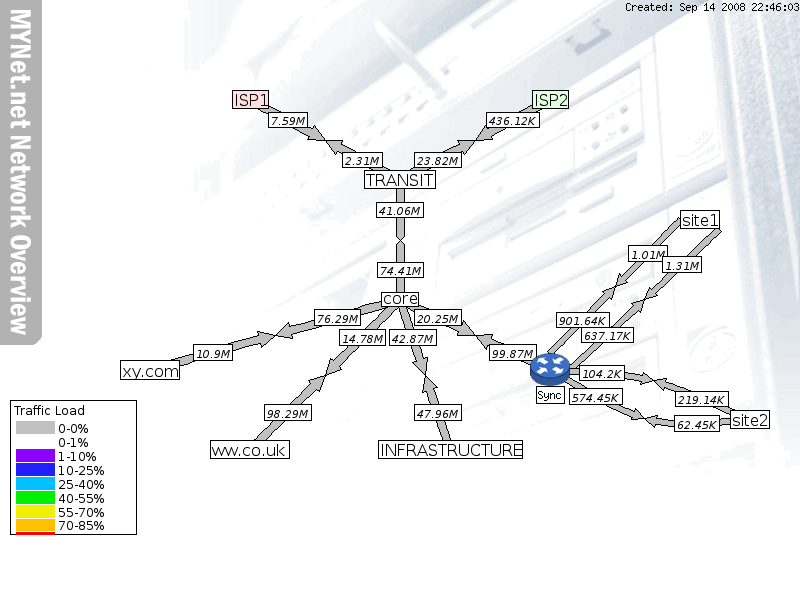
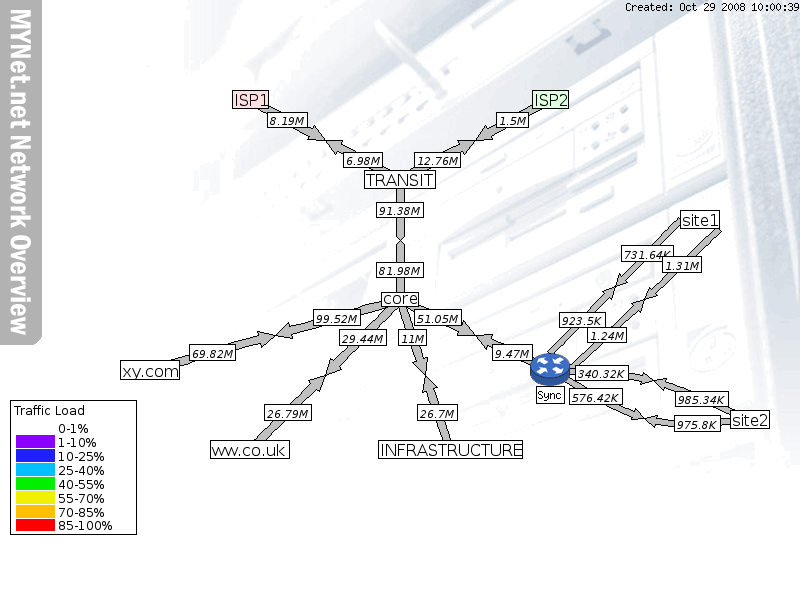
Fix for default scale having no key

diff --git a/trunk/docs/example/example.html b/trunk/docs/example/example.html
@@ -7,52 +7,52 @@
 <area id="NODE:infra:0"  href="graph_page.html"  shape="rect" coords="378,441,522,459" />
 <area id="NODE:customer2:0"  href="graph_page.html"  shape="rect" coords="211,441,290,459" />
 <area id="NODE:customer1:0"  href="graph_page.html"  shape="rect" coords="121,360,180,380" />
-<area id="NODE:core:0"  href="graph_page.html	"  shape="rect" coords="382,293,419,307" />
-<area id="NODE:isp2:0"  href="graph_page.html	"  shape="rect" coords="532,91,568,109" />
-<area id="NODE:isp1:0"  href="graph_page.html	"  shape="rect" coords="232,91,268,109" />
+<area id="NODE:core:0"  href="graph_page.html"  shape="rect" coords="382,293,419,307" />
+<area id="NODE:isp2:0"  href="graph_page.html"  shape="rect" coords="532,91,568,109" />
+<area id="NODE:isp1:0"  href="graph_page.html"  shape="rect" coords="232,91,268,109" />
 <area id="NODE:transit:0"  href="graph_page.html"  shape="rect" coords="365,171,436,189" />
-<area id="LINK:infra-core:3"  href="graph_page.html"  onmouseover="return overlib('&lt;img src=graph_image.png&gt;',DELAY,250,WIDTH,395,LEFT,HEIGHT,153,ABOVE,CAPTION,'infra-core');"  onmouseout="return nd();"  shape="rect" coords="414,405,461,420" />
-<area id="LINK:infra-core:2"  href="graph_page.html"  onmouseover="return overlib('&lt;img src=graph_image.png&gt;',DELAY,250,WIDTH,395,LEFT,HEIGHT,153,ABOVE,CAPTION,'infra-core');"  onmouseout="return nd();"  shape="rect" coords="389,330,436,345" />
-<area id="LINK:infra-core:0"  href="graph_page.html"  onmouseover="return overlib('&lt;img src=graph_image.png&gt;',DELAY,250,WIDTH,395,LEFT,HEIGHT,153,ABOVE,CAPTION,'infra-core');"  onmouseout="return nd();"  shape="poly" coords="396,301,397,303,398,306,399,310,400,313,401,317,403,322,404,326,406,331,408,336,409,342,411,347,413,353,415,358,416,361,412,362,425,375,427,357,423,358,422,356,421,350,419,345,417,339,415,334,413,329,412,324,410,319,409,315,407,311,406,307,405,304,404,301,403,298" />
-<area id="LINK:infra-core:1"  href="graph_page.html"  onmouseover="return overlib('&lt;img src=graph_image.png&gt;',DELAY,250,WIDTH,395,LEFT,HEIGHT,153,ABOVE,CAPTION,'infra-core');"  onmouseout="return nd();"  shape="poly" coords="446,451,444,445,443,442,442,438,440,434,439,430,437,425,436,420,434,415,432,410,430,404,428,399,426,391,422,392,425,375,437,387,433,388,436,396,438,402,440,407,441,413,443,418,445,423,446,427,448,432,449,436,450,439,451,443,453,448" />
-<area id="LINK:cust2-core:3"  href="graph_page.html"  onmouseover="return overlib('&lt;img src=graph_image.png&gt;',DELAY,250,WIDTH,395,HEIGHT,153,ABOVE,CAPTION,'cust2-core');"  onmouseout="return nd();"  shape="rect" coords="264,405,311,420" />
-<area id="LINK:cust2-core:2"  href="graph_page.html"  onmouseover="return overlib('&lt;img src=graph_image.png&gt;',DELAY,250,WIDTH,395,HEIGHT,153,ABOVE,CAPTION,'cust2-core');"  onmouseout="return nd();"  shape="rect" coords="340,330,386,345" />
-<area id="LINK:cust2-core:0"  href="graph_page.html"  onmouseover="return overlib('&lt;img src=graph_image.png&gt;',DELAY,250,WIDTH,395,HEIGHT,153,ABOVE,CAPTION,'cust2-core');"  onmouseout="return nd();"  shape="poly" coords="397,297,394,299,391,302,388,306,384,309,380,313,376,318,371,322,366,327,361,332,356,338,350,343,345,349,339,354,333,360,333,360,330,358,325,375,341,369,339,366,339,366,345,360,350,354,356,349,361,343,367,338,372,333,377,328,381,323,386,319,390,315,393,311,397,308,400,305,402,302" />
-<area id="LINK:cust2-core:1"  href="graph_page.html"  onmouseover="return overlib('&lt;img src=graph_image.png&gt;',DELAY,250,WIDTH,395,HEIGHT,153,ABOVE,CAPTION,'cust2-core');"  onmouseout="return nd();"  shape="poly" coords="247,447,252,441,256,438,259,434,263,430,268,426,272,421,277,416,282,411,288,406,293,400,299,395,304,389,310,383,308,380,325,375,319,391,316,389,310,395,304,400,299,406,293,411,288,417,283,422,278,427,273,431,269,436,265,440,261,443,258,447,252,452" />
-<area id="LINK:cust1-core:3"  href="graph_page.html"  onmouseover="return overlib('&lt;img src=graph_image.png&gt;',DELAY,250,WIDTH,395,HEIGHT,153,ABOVE,CAPTION,'cust1-core');"  onmouseout="return nd();"  shape="rect" coords="193,345,232,360" />
-<area id="LINK:cust1-core:2"  href="graph_page.html"  onmouseover="return overlib('&lt;img src=graph_image.png&gt;',DELAY,250,WIDTH,395,HEIGHT,153,ABOVE,CAPTION,'cust1-core');"  onmouseout="return nd();"  shape="rect" coords="314,310,360,325" />
-<area id="LINK:cust1-core:0"  href="graph_page.html"  onmouseover="return overlib('&lt;img src=graph_image.png&gt;',DELAY,250,WIDTH,395,HEIGHT,153,ABOVE,CAPTION,'cust1-core');"  onmouseout="return nd();"  shape="poly" coords="398,296,394,297,389,298,384,300,377,302,371,303,363,305,356,308,348,310,339,312,330,315,321,317,312,320,303,323,293,325,289,326,288,322,275,335,292,338,291,334,295,333,305,330,314,328,323,325,333,322,341,320,350,318,358,315,366,313,373,311,380,309,386,307,391,306,396,305,401,303" />
-<area id="LINK:cust1-core:1"  href="graph_page.html"  onmouseover="return overlib('&lt;img src=graph_image.png&gt;',DELAY,250,WIDTH,395,HEIGHT,153,ABOVE,CAPTION,'cust1-core');"  onmouseout="return nd();"  shape="poly" coords="148,366,158,363,163,362,169,360,176,358,183,356,191,354,199,351,208,349,216,347,226,344,235,341,244,339,258,335,257,331,275,335,261,347,260,343,246,346,237,349,228,352,219,354,210,357,201,359,193,361,186,364,178,366,172,367,165,369,160,371,151,373" />
-<area id="LINK:core-transit:3"  href="graph_page.html"  onmouseover="return overlib('&lt;img src=graph_image.png&gt;',DELAY,250,WIDTH,395,HEIGHT,153,CAPTION,'core-transit');"  onmouseout="return nd();"  shape="rect" coords="377,202,424,218" />
-<area id="LINK:core-transit:2"  href="graph_page.html"  onmouseover="return overlib('&lt;img src=graph_image.png&gt;',DELAY,250,WIDTH,395,HEIGHT,153,CAPTION,'core-transit');"  onmouseout="return nd();"  shape="rect" coords="377,262,423,278" />
-<area id="LINK:core-transit:0"  href="graph_page.html"  onmouseover="return overlib('&lt;img src=graph_image.png&gt;',DELAY,250,WIDTH,395,HEIGHT,153,CAPTION,'core-transit');"  onmouseout="return nd();"  shape="poly" coords="404,300,404,297,404,295,404,292,404,289,404,286,404,283,404,279,404,275,404,271,404,267,404,262,404,258,404,253,404,249,404,244,404,244,404,244,400,240,396,244,396,244,396,244,396,249,396,253,396,258,396,262,396,267,396,271,396,275,396,279,396,283,396,286,396,289,396,292,396,295,396,297,396,300" />
-<area id="LINK:core-transit:1"  href="graph_page.html"  onmouseover="return overlib('&lt;img src=graph_image.png&gt;',DELAY,250,WIDTH,395,HEIGHT,153,CAPTION,'core-transit');"  onmouseout="return nd();"  shape="poly" coords="404,180,404,184,404,187,404,190,404,193,404,196,404,200,404,204,404,208,404,212,404,217,404,221,404,226,404,230,404,236,404,236,400,240,396,236,396,236,396,230,396,226,396,221,396,217,396,212,396,208,396,204,396,200,396,196,396,193,396,190,396,187,396,184,396,180" />
-<area id="LINK:transit-isp2:3"  href="graph_page.html"  onmouseover="return overlib('&lt;img src=graph_image.png&gt;',DELAY,250,WIDTH,395,LEFT,HEIGHT,153,CAPTION,'transit-isp2');"  onmouseout="return nd();"  shape="rect" coords="414,152,461,168" />
-<area id="LINK:transit-isp2:2"  href="graph_page.html"  onmouseover="return overlib('&lt;img src=graph_image.png&gt;',DELAY,250,WIDTH,395,LEFT,HEIGHT,153,CAPTION,'transit-isp2');"  onmouseout="return nd();"  shape="rect" coords="486,112,539,128" />
-<area id="LINK:transit-isp2:0"  href="graph_page.html"  onmouseover="return overlib('&lt;img src=graph_image.png&gt;',DELAY,250,WIDTH,395,LEFT,HEIGHT,153,CAPTION,'transit-isp2');"  onmouseout="return nd();"  shape="poly" coords="548,96,545,97,542,99,539,101,535,103,531,105,527,107,522,110,517,112,512,115,507,118,501,121,496,124,490,127,487,128,485,125,475,140,492,139,491,136,494,134,500,131,505,128,511,125,516,122,521,119,526,117,530,114,535,112,539,110,542,108,546,106,549,104,551,103" />
-<area id="LINK:transit-isp2:1"  href="graph_page.html"  onmouseover="return overlib('&lt;img src=graph_image.png&gt;',DELAY,250,WIDTH,395,LEFT,HEIGHT,153,CAPTION,'transit-isp2');"  onmouseout="return nd();"  shape="poly" coords="398,176,403,173,407,171,410,169,414,167,419,165,423,162,428,160,433,157,438,154,444,151,449,148,459,144,457,140,475,140,464,154,462,151,453,155,448,158,442,161,437,164,432,167,427,169,422,172,418,174,414,176,410,178,407,180,401,183" />
-<area id="LINK:transit-isp1:3"  href="graph_page.html"  onmouseover="return overlib('&lt;img src=graph_image.png&gt;',DELAY,250,WIDTH,395,HEIGHT,153,CAPTION,'transit-isp1');"  onmouseout="return nd();"  shape="rect" coords="343,152,383,168" />
-<area id="LINK:transit-isp1:2"  href="graph_page.html"  onmouseover="return overlib('&lt;img src=graph_image.png&gt;',DELAY,250,WIDTH,395,HEIGHT,153,CAPTION,'transit-isp1');"  onmouseout="return nd();"  shape="rect" coords="268,112,307,128" />
-<area id="LINK:transit-isp1:0"  href="graph_page.html"  onmouseover="return overlib('&lt;img src=graph_image.png&gt;',DELAY,250,WIDTH,395,HEIGHT,153,CAPTION,'transit-isp1');"  onmouseout="return nd();"  shape="poly" coords="248,103,250,104,253,106,257,108,260,110,264,112,269,114,273,117,278,119,283,122,288,125,294,128,299,131,305,134,309,136,307,139,325,140,314,125,312,128,309,127,303,124,298,121,292,118,287,115,282,112,277,110,272,107,268,105,264,103,260,101,257,99,254,97,251,96" />
-<area id="LINK:transit-isp1:1"  href="graph_page.html"  onmouseover="return overlib('&lt;img src=graph_image.png&gt;',DELAY,250,WIDTH,395,HEIGHT,153,CAPTION,'transit-isp1');"  onmouseout="return nd();"  shape="poly" coords="398,183,392,180,389,178,385,176,381,174,377,172,372,169,367,167,362,164,357,161,351,158,346,155,337,151,335,154,325,140,342,140,341,144,350,148,355,151,361,154,366,157,371,160,376,162,380,165,385,167,389,169,392,171,396,173,401,176" />
-<area id="LINK:sync-site2b:3"  href="graph_page.html"  onmouseover="return overlib('&lt;img src=graph_image.png&gt;',DELAY,250,WIDTH,395,LEFT,HEIGHT,153,ABOVE,CAPTION,'sync-site2b');"  onmouseout="return nd();"  shape="rect" coords="570,389,623,404" />
-<area id="LINK:sync-site2b:2"  href="graph_page.html"  onmouseover="return overlib('&lt;img src=graph_image.png&gt;',DELAY,250,WIDTH,395,LEFT,HEIGHT,153,ABOVE,CAPTION,'sync-site2b');"  onmouseout="return nd();"  shape="rect" coords="675,416,720,431" />
-<area id="LINK:sync-site2b:0"  href="graph_page.html"  onmouseover="return overlib('&lt;img src=graph_image.png&gt;',DELAY,250,WIDTH,395,LEFT,HEIGHT,153,ABOVE,CAPTION,'sync-site2b');"  onmouseout="return nd();"  shape="poly" coords="749,417,748,417,746,417,744,417,742,417,739,417,737,417,734,417,731,418,728,418,725,418,722,418,719,419,716,419,712,419,709,419,706,420,702,420,699,420,695,420,691,420,688,420,684,420,681,420,677,420,673,420,670,420,666,419,663,419,660,418,657,418,656,418,657,415,644,418,654,427,655,424,655,424,659,424,662,425,666,425,669,426,673,426,677,426,680,426,684,426,688,426,691,426,695,426,699,426,702,426,706,426,709,425,713,425,716,425,720,425,723,424,726,424,729,424,732,424,735,423,737,423,740,423,742,423,744,423,746,423,748,423,750,422" />
-<area id="LINK:sync-site2b:1"  href="graph_page.html"  onmouseover="return overlib('&lt;img src=graph_image.png&gt;',DELAY,250,WIDTH,395,LEFT,HEIGHT,153,ABOVE,CAPTION,'sync-site2b');"  onmouseout="return nd();"  shape="poly" coords="551,367,554,369,557,370,559,371,561,372,564,374,566,375,569,377,572,379,575,381,578,382,581,384,584,386,588,388,591,390,595,392,598,394,602,396,605,398,609,400,613,401,616,403,620,405,623,407,627,408,634,411,635,408,644,418,631,419,632,417,625,414,621,412,617,410,614,409,610,407,606,405,603,403,599,401,595,399,592,397,588,395,585,393,581,391,578,389,575,388,572,386,569,384,566,382,563,381,561,379,558,378,556,376,554,375,552,374,548,372" />
-<area id="LINK:sync-site2a:3"  href="graph_page.html"  onmouseover="return overlib('&lt;img src=graph_image.png&gt;',DELAY,250,WIDTH,395,LEFT,HEIGHT,153,ABOVE,CAPTION,'sync-site2a');"  onmouseout="return nd();"  shape="rect" coords="580,365,625,381" />
-<area id="LINK:sync-site2a:2"  href="graph_page.html"  onmouseover="return overlib('&lt;img src=graph_image.png&gt;',DELAY,250,WIDTH,395,LEFT,HEIGHT,153,ABOVE,CAPTION,'sync-site2a');"  onmouseout="return nd();"  shape="rect" coords="676,391,729,407" />
-<area id="LINK:sync-site2a:0"  href="graph_page.html"  onmouseover="return overlib('&lt;img src=graph_image.png&gt;',DELAY,250,WIDTH,395,LEFT,HEIGHT,153,ABOVE,CAPTION,'sync-site2a');"  onmouseout="return nd();"  shape="poly" coords="751,417,749,416,747,415,745,414,743,413,741,412,738,411,736,410,733,409,730,408,727,406,724,405,721,403,717,402,714,400,710,399,707,397,703,396,700,394,696,393,693,391,689,390,685,388,682,387,678,386,674,384,671,383,667,382,665,381,666,378,653,380,663,390,664,387,665,387,669,389,672,390,676,391,679,393,683,394,687,395,690,397,694,398,697,400,701,401,705,403,708,404,711,406,715,407,718,409,721,410,724,412,727,413,730,414,733,416,736,417,738,418,741,419,743,420,745,421,747,422,748,422" />
-<area id="LINK:sync-site2a:1"  href="graph_page.html"  onmouseover="return overlib('&lt;img src=graph_image.png&gt;',DELAY,250,WIDTH,395,LEFT,HEIGHT,153,ABOVE,CAPTION,'sync-site2a');"  onmouseout="return nd();"  shape="poly" coords="550,367,553,367,555,367,557,367,560,367,562,367,565,367,568,368,571,368,574,368,577,368,580,368,583,368,587,369,590,369,593,369,597,369,601,370,604,370,608,370,612,370,615,371,619,371,623,372,626,372,630,373,633,373,637,374,642,375,643,372,653,380,640,384,641,381,636,380,632,379,629,379,625,378,622,378,618,377,615,377,611,376,607,376,604,376,600,376,597,375,593,375,590,375,586,375,583,374,580,374,576,374,573,374,570,374,567,374,565,373,562,373,559,373,557,373,555,373,553,373,549,372" />
-<area id="LINK:sync-site1b:3"  href="graph_page.html"  onmouseover="return overlib('&lt;img src=graph_image.png&gt;',DELAY,250,WIDTH,395,LEFT,HEIGHT,153,CAPTION,'sync-site1b');"  onmouseout="return nd();"  shape="rect" coords="581,327,633,343" />
-<area id="LINK:sync-site1b:2"  href="graph_page.html"  onmouseover="return overlib('&lt;img src=graph_image.png&gt;',DELAY,250,WIDTH,395,LEFT,HEIGHT,153,CAPTION,'sync-site1b');"  onmouseout="return nd();"  shape="rect" coords="663,257,702,272" />
-<area id="LINK:sync-site1b:0"  href="graph_page.html"  onmouseover="return overlib('&lt;img src=graph_image.png&gt;',DELAY,250,WIDTH,395,LEFT,HEIGHT,153,CAPTION,'sync-site1b');"  onmouseout="return nd();"  shape="poly" coords="717,227,714,229,711,232,708,235,704,238,700,242,696,246,691,251,687,255,682,260,676,265,671,270,665,275,660,281,654,286,651,289,649,287,644,299,657,295,655,293,658,290,664,285,669,280,675,274,680,269,686,264,691,259,696,255,700,251,704,247,709,243,712,239,716,236,719,233,721,231" />
-<area id="LINK:sync-site1b:1"  href="graph_page.html"  onmouseover="return overlib('&lt;img src=graph_image.png&gt;',DELAY,250,WIDTH,395,LEFT,HEIGHT,153,CAPTION,'sync-site1b');"  onmouseout="return nd();"  shape="poly" coords="567,367,573,362,576,359,580,355,584,352,588,348,593,343,598,339,603,334,608,329,614,324,619,319,625,313,633,305,631,303,644,299,640,312,638,310,629,318,623,323,618,328,612,333,607,338,602,343,597,348,592,352,588,356,584,360,580,363,577,366,572,372" />
-<area id="LINK:sync-site1a:3"  href="graph_page.html"  onmouseover="return overlib('&lt;img src=graph_image.png&gt;',DELAY,250,WIDTH,395,LEFT,HEIGHT,153,CAPTION,'sync-site1a');"  onmouseout="return nd();"  shape="rect" coords="556,312,609,328" />
-<area id="LINK:sync-site1a:2"  href="graph_page.html"  onmouseover="return overlib('&lt;img src=graph_image.png&gt;',DELAY,250,WIDTH,395,LEFT,HEIGHT,153,CAPTION,'sync-site1a');"  onmouseout="return nd();"  shape="rect" coords="628,246,667,261" />
-<area id="LINK:sync-site1a:0"  href="graph_page.html"  onmouseover="return overlib('&lt;img src=graph_image.png&gt;',DELAY,250,WIDTH,395,LEFT,HEIGHT,153,CAPTION,'sync-site1a');"  onmouseout="return nd();"  shape="poly" coords="678,217,676,220,673,222,670,225,667,229,663,232,660,236,656,240,651,245,647,249,642,254,638,259,633,264,628,269,623,274,621,276,619,273,615,286,627,282,625,280,627,278,632,273,637,268,642,263,647,258,651,253,656,249,660,244,664,240,668,236,671,233,674,230,677,227,680,224,682,222" />
-<area id="LINK:sync-site1a:1"  href="graph_page.html"  onmouseover="return overlib('&lt;img src=graph_image.png&gt;',DELAY,250,WIDTH,395,LEFT,HEIGHT,153,CAPTION,'sync-site1a');"  onmouseout="return nd();"  shape="poly" coords="547,351,552,346,555,343,558,340,562,336,566,332,570,328,574,324,578,319,583,315,588,310,592,305,597,300,604,293,602,291,615,286,611,299,609,297,602,304,597,309,592,314,587,319,583,323,578,328,574,332,570,336,566,340,563,344,559,347,556,350,552,355" />
-<area id="LINK:sync-core:3"  href="graph_page.html"  onmouseover="return overlib('&lt;img src=graph_image.png&gt;',DELAY,250,WIDTH,395,LEFT,HEIGHT,153,ABOVE,CAPTION,'sync-core');"  onmouseout="return nd();"  shape="rect" coords="489,345,536,360" />
-<area id="LINK:sync-core:2"  href="graph_page.html"  onmouseover="return overlib('&lt;img src=graph_image.png&gt;',DELAY,250,WIDTH,395,LEFT,HEIGHT,153,ABOVE,CAPTION,'sync-core');"  onmouseout="return nd();"  shape="rect" coords="414,310,461,325" />
-<area id="LINK:sync-core:0"  href="graph_page.html"  onmouseover="return overlib('&lt;img src=graph_image.png&gt;',DELAY,250,WIDTH,395,LEFT,HEIGHT,153,ABOVE,CAPTION,'sync-core');"  onmouseout="return nd();"  shape="poly" coords="398,303,400,304,403,306,407,307,410,309,414,311,419,313,423,315,428,317,433,320,439,322,444,325,450,327,455,330,458,331,457,335,475,335,463,320,462,324,459,323,453,320,447,317,442,315,437,312,432,310,427,308,422,306,418,304,414,302,410,300,407,298,404,297,401,296" />
-<area id="LINK:sync-core:1"  href="graph_page.html"  onmouseover="return overlib('&lt;img src=graph_image.png&gt;',DELAY,250,WIDTH,395,LEFT,HEIGHT,153,ABOVE,CAPTION,'sync-core');"  onmouseout="return nd();"  shape="poly" coords="548,373,542,371,539,369,535,367,531,365,527,363,522,361,517,359,512,357,507,354,502,352,496,349,487,345,486,349,475,335,492,334,491,338,499,342,505,344,510,347,516,349,521,352,526,354,530,356,535,358,539,360,542,362,546,363,551,366" />
-</map><hr /><span id="byline">Network Map created with <a href="http://www.network-weathermap.com/?vs=0.96test1">PHP Network Weathermap v0.96test1</a></span></body></html>
+<area id="LINK:infra-core:3"  href="graph_page.html"  onmouseover="return overlib('&lt;img  WIDTH=395 HEIGHT=153 src=graph_image.png&gt;',DELAY,250,WIDTH,395,LEFT,HEIGHT,153,ABOVE,CAPTION,'infra-core');"  onmouseout="return nd();"  shape="rect" coords="418,405,458,420" />
+<area id="LINK:infra-core:2"  href="graph_page.html"  onmouseover="return overlib('&lt;img  WIDTH=395 HEIGHT=153 src=graph_image.png&gt;',DELAY,250,WIDTH,395,LEFT,HEIGHT,153,ABOVE,CAPTION,'infra-core');"  onmouseout="return nd();"  shape="rect" coords="399,330,427,345" />
+<area id="LINK:infra-core:0"  href="graph_page.html"  onmouseover="return overlib('&lt;img  WIDTH=395 HEIGHT=153 src=graph_image.png&gt;',DELAY,250,WIDTH,395,LEFT,HEIGHT,153,ABOVE,CAPTION,'infra-core');"  onmouseout="return nd();"  shape="poly" coords="396,301,397,303,398,306,399,310,400,313,401,317,403,322,404,326,406,331,408,336,409,342,411,347,413,353,415,358,416,361,412,362,425,375,427,357,423,358,422,356,421,350,419,345,417,339,415,334,413,329,412,324,410,319,409,315,407,311,406,307,405,304,404,301,403,298" />
+<area id="LINK:infra-core:1"  href="graph_page.html"  onmouseover="return overlib('&lt;img  WIDTH=395 HEIGHT=153 src=graph_image.png&gt;',DELAY,250,WIDTH,395,LEFT,HEIGHT,153,ABOVE,CAPTION,'infra-core');"  onmouseout="return nd();"  shape="poly" coords="446,451,444,445,443,442,442,438,440,434,439,430,437,425,436,420,434,415,432,410,430,404,428,399,426,391,422,392,425,375,437,387,433,388,436,396,438,402,440,407,441,413,443,418,445,423,446,427,448,432,449,436,450,439,451,443,453,448" />
+<area id="LINK:cust2-core:3"  href="graph_page.html"  onmouseover="return overlib('&lt;img  WIDTH=395 HEIGHT=153 src=graph_image.png&gt;',DELAY,250,WIDTH,395,HEIGHT,153,ABOVE,CAPTION,'cust2-core');"  onmouseout="return nd();"  shape="rect" coords="264,405,311,420" />
+<area id="LINK:cust2-core:2"  href="graph_page.html"  onmouseover="return overlib('&lt;img  WIDTH=395 HEIGHT=153 src=graph_image.png&gt;',DELAY,250,WIDTH,395,HEIGHT,153,ABOVE,CAPTION,'cust2-core');"  onmouseout="return nd();"  shape="rect" coords="339,330,386,345" />
+<area id="LINK:cust2-core:0"  href="graph_page.html"  onmouseover="return overlib('&lt;img  WIDTH=395 HEIGHT=153 src=graph_image.png&gt;',DELAY,250,WIDTH,395,HEIGHT,153,ABOVE,CAPTION,'cust2-core');"  onmouseout="return nd();"  shape="poly" coords="397,297,394,299,391,302,388,306,384,309,380,313,376,318,371,322,366,327,361,332,356,338,350,343,345,349,339,354,333,360,333,360,330,358,325,375,341,369,339,366,339,366,345,360,350,354,356,349,361,343,367,338,372,333,377,328,381,323,386,319,390,315,393,311,397,308,400,305,402,302" />
+<area id="LINK:cust2-core:1"  href="graph_page.html"  onmouseover="return overlib('&lt;img  WIDTH=395 HEIGHT=153 src=graph_image.png&gt;',DELAY,250,WIDTH,395,HEIGHT,153,ABOVE,CAPTION,'cust2-core');"  onmouseout="return nd();"  shape="poly" coords="247,447,252,441,256,438,259,434,263,430,268,426,272,421,277,416,282,411,288,406,293,400,299,395,304,389,310,383,308,380,325,375,319,391,316,389,310,395,304,400,299,406,293,411,288,417,283,422,278,427,273,431,269,436,265,440,261,443,258,447,252,452" />
+<area id="LINK:cust1-core:3"  href="graph_page.html"  onmouseover="return overlib('&lt;img  WIDTH=395 HEIGHT=153 src=graph_image.png&gt;',DELAY,250,WIDTH,395,HEIGHT,153,ABOVE,CAPTION,'cust1-core');"  onmouseout="return nd();"  shape="rect" coords="190,345,236,360" />
+<area id="LINK:cust1-core:2"  href="graph_page.html"  onmouseover="return overlib('&lt;img  WIDTH=395 HEIGHT=153 src=graph_image.png&gt;',DELAY,250,WIDTH,395,HEIGHT,153,ABOVE,CAPTION,'cust1-core');"  onmouseout="return nd();"  shape="rect" coords="314,310,361,325" />
+<area id="LINK:cust1-core:0"  href="graph_page.html"  onmouseover="return overlib('&lt;img  WIDTH=395 HEIGHT=153 src=graph_image.png&gt;',DELAY,250,WIDTH,395,HEIGHT,153,ABOVE,CAPTION,'cust1-core');"  onmouseout="return nd();"  shape="poly" coords="398,296,394,297,389,298,384,300,377,302,371,303,363,305,356,308,348,310,339,312,330,315,321,317,312,320,303,323,293,325,289,326,288,322,275,335,292,338,291,334,295,333,305,330,314,328,323,325,333,322,341,320,350,318,358,315,366,313,373,311,380,309,386,307,391,306,396,305,401,303" />
+<area id="LINK:cust1-core:1"  href="graph_page.html"  onmouseover="return overlib('&lt;img  WIDTH=395 HEIGHT=153 src=graph_image.png&gt;',DELAY,250,WIDTH,395,HEIGHT,153,ABOVE,CAPTION,'cust1-core');"  onmouseout="return nd();"  shape="poly" coords="148,366,158,363,163,362,169,360,176,358,183,356,191,354,199,351,208,349,216,347,226,344,235,341,244,339,258,335,257,331,275,335,261,347,260,343,246,346,237,349,228,352,219,354,210,357,201,359,193,361,186,364,178,366,172,367,165,369,160,371,151,373" />
+<area id="LINK:core-transit:3"  href="graph_page.html"  onmouseover="return overlib('&lt;img  WIDTH=395 HEIGHT=153 src=graph_image.png&gt;',DELAY,250,WIDTH,395,HEIGHT,153,CAPTION,'core-transit');"  onmouseout="return nd();"  shape="rect" coords="377,202,424,218" />
+<area id="LINK:core-transit:2"  href="graph_page.html"  onmouseover="return overlib('&lt;img  WIDTH=395 HEIGHT=153 src=graph_image.png&gt;',DELAY,250,WIDTH,395,HEIGHT,153,CAPTION,'core-transit');"  onmouseout="return nd();"  shape="rect" coords="377,262,424,278" />
+<area id="LINK:core-transit:0"  href="graph_page.html"  onmouseover="return overlib('&lt;img  WIDTH=395 HEIGHT=153 src=graph_image.png&gt;',DELAY,250,WIDTH,395,HEIGHT,153,CAPTION,'core-transit');"  onmouseout="return nd();"  shape="poly" coords="404,300,404,297,404,295,404,292,404,289,404,286,404,283,404,279,404,275,404,271,404,267,404,262,404,258,404,253,404,249,404,244,404,244,404,244,400,240,396,244,396,244,396,244,396,249,396,253,396,258,396,262,396,267,396,271,396,275,396,279,396,283,396,286,396,289,396,292,396,295,396,297,396,300" />
+<area id="LINK:core-transit:1"  href="graph_page.html"  onmouseover="return overlib('&lt;img  WIDTH=395 HEIGHT=153 src=graph_image.png&gt;',DELAY,250,WIDTH,395,HEIGHT,153,CAPTION,'core-transit');"  onmouseout="return nd();"  shape="poly" coords="404,180,404,184,404,187,404,190,404,193,404,196,404,200,404,204,404,208,404,212,404,217,404,221,404,226,404,230,404,236,404,236,400,240,396,236,396,236,396,230,396,226,396,221,396,217,396,212,396,208,396,204,396,200,396,196,396,193,396,190,396,187,396,184,396,180" />
+<area id="LINK:transit-isp2:3"  href="graph_page.html"  onmouseover="return overlib('&lt;img  WIDTH=395 HEIGHT=153 src=graph_image.png&gt;',DELAY,250,WIDTH,395,LEFT,HEIGHT,153,CAPTION,'transit-isp2');"  onmouseout="return nd();"  shape="rect" coords="415,152,461,168" />
+<area id="LINK:transit-isp2:2"  href="graph_page.html"  onmouseover="return overlib('&lt;img  WIDTH=395 HEIGHT=153 src=graph_image.png&gt;',DELAY,250,WIDTH,395,LEFT,HEIGHT,153,CAPTION,'transit-isp2');"  onmouseout="return nd();"  shape="rect" coords="497,112,529,128" />
+<area id="LINK:transit-isp2:0"  href="graph_page.html"  onmouseover="return overlib('&lt;img  WIDTH=395 HEIGHT=153 src=graph_image.png&gt;',DELAY,250,WIDTH,395,LEFT,HEIGHT,153,CAPTION,'transit-isp2');"  onmouseout="return nd();"  shape="poly" coords="548,96,545,97,542,99,539,101,535,103,531,105,527,107,522,110,517,112,512,115,507,118,501,121,496,124,490,127,487,128,485,125,475,140,492,139,491,136,494,134,500,131,505,128,511,125,516,122,521,119,526,117,530,114,535,112,539,110,542,108,546,106,549,104,551,103" />
+<area id="LINK:transit-isp2:1"  href="graph_page.html"  onmouseover="return overlib('&lt;img  WIDTH=395 HEIGHT=153 src=graph_image.png&gt;',DELAY,250,WIDTH,395,LEFT,HEIGHT,153,CAPTION,'transit-isp2');"  onmouseout="return nd();"  shape="poly" coords="398,176,403,173,407,171,410,169,414,167,419,165,423,162,428,160,433,157,438,154,444,151,449,148,459,144,457,140,475,140,464,154,462,151,453,155,448,158,442,161,437,164,432,167,427,169,422,172,418,174,414,176,410,178,407,180,401,183" />
+<area id="LINK:transit-isp1:3"  href="graph_page.html"  onmouseover="return overlib('&lt;img  WIDTH=395 HEIGHT=153 src=graph_image.png&gt;',DELAY,250,WIDTH,395,HEIGHT,153,CAPTION,'transit-isp1');"  onmouseout="return nd();"  shape="rect" coords="343,152,382,168" />
+<area id="LINK:transit-isp1:2"  href="graph_page.html"  onmouseover="return overlib('&lt;img  WIDTH=395 HEIGHT=153 src=graph_image.png&gt;',DELAY,250,WIDTH,395,HEIGHT,153,CAPTION,'transit-isp1');"  onmouseout="return nd();"  shape="rect" coords="268,112,308,128" />
+<area id="LINK:transit-isp1:0"  href="graph_page.html"  onmouseover="return overlib('&lt;img  WIDTH=395 HEIGHT=153 src=graph_image.png&gt;',DELAY,250,WIDTH,395,HEIGHT,153,CAPTION,'transit-isp1');"  onmouseout="return nd();"  shape="poly" coords="248,103,250,104,253,106,257,108,260,110,264,112,269,114,273,117,278,119,283,122,288,125,294,128,299,131,305,134,309,136,307,139,325,140,314,125,312,128,309,127,303,124,298,121,292,118,287,115,282,112,277,110,272,107,268,105,264,103,260,101,257,99,254,97,251,96" />
+<area id="LINK:transit-isp1:1"  href="graph_page.html"  onmouseover="return overlib('&lt;img  WIDTH=395 HEIGHT=153 src=graph_image.png&gt;',DELAY,250,WIDTH,395,HEIGHT,153,CAPTION,'transit-isp1');"  onmouseout="return nd();"  shape="poly" coords="398,183,392,180,389,178,385,176,381,174,377,172,372,169,367,167,362,164,357,161,351,158,346,155,337,151,335,154,325,140,342,140,341,144,350,148,355,151,361,154,366,157,371,160,376,162,380,165,385,167,389,169,392,171,396,173,401,176" />
+<area id="LINK:sync-site2b:3"  href="graph_page.html"  onmouseover="return overlib('&lt;img  WIDTH=395 HEIGHT=153 src=graph_image.png&gt;',DELAY,250,WIDTH,395,LEFT,HEIGHT,153,ABOVE,CAPTION,'sync-site2b');"  onmouseout="return nd();"  shape="rect" coords="570,389,623,404" />
+<area id="LINK:sync-site2b:2"  href="graph_page.html"  onmouseover="return overlib('&lt;img  WIDTH=395 HEIGHT=153 src=graph_image.png&gt;',DELAY,250,WIDTH,395,LEFT,HEIGHT,153,ABOVE,CAPTION,'sync-site2b');"  onmouseout="return nd();"  shape="rect" coords="674,416,720,431" />
+<area id="LINK:sync-site2b:0"  href="graph_page.html"  onmouseover="return overlib('&lt;img  WIDTH=395 HEIGHT=153 src=graph_image.png&gt;',DELAY,250,WIDTH,395,LEFT,HEIGHT,153,ABOVE,CAPTION,'sync-site2b');"  onmouseout="return nd();"  shape="poly" coords="749,417,748,417,746,417,744,417,742,417,739,417,737,417,734,417,731,418,728,418,725,418,722,418,719,419,716,419,712,419,709,419,706,420,702,420,699,420,695,420,691,420,688,420,684,420,681,420,677,420,673,420,670,420,666,419,663,419,660,418,657,418,656,418,657,415,644,418,654,427,655,424,655,424,659,424,662,425,666,425,669,426,673,426,677,426,680,426,684,426,688,426,691,426,695,426,699,426,702,426,706,426,709,425,713,425,716,425,720,425,723,424,726,424,729,424,732,424,735,423,737,423,740,423,742,423,744,423,746,423,748,423,750,422" />
+<area id="LINK:sync-site2b:1"  href="graph_page.html"  onmouseover="return overlib('&lt;img  WIDTH=395 HEIGHT=153 src=graph_image.png&gt;',DELAY,250,WIDTH,395,LEFT,HEIGHT,153,ABOVE,CAPTION,'sync-site2b');"  onmouseout="return nd();"  shape="poly" coords="551,367,554,369,557,370,559,371,561,372,564,374,566,375,569,377,572,379,575,381,578,382,581,384,584,386,588,388,591,390,595,392,598,394,602,396,605,398,609,400,613,401,616,403,620,405,623,407,627,408,634,411,635,408,644,418,631,419,632,417,625,414,621,412,617,410,614,409,610,407,606,405,603,403,599,401,595,399,592,397,588,395,585,393,581,391,578,389,575,388,572,386,569,384,566,382,563,381,561,379,558,378,556,376,554,375,552,374,548,372" />
+<area id="LINK:sync-site2a:3"  href="graph_page.html"  onmouseover="return overlib('&lt;img  WIDTH=395 HEIGHT=153 src=graph_image.png&gt;',DELAY,250,WIDTH,395,LEFT,HEIGHT,153,ABOVE,CAPTION,'sync-site2a');"  onmouseout="return nd();"  shape="rect" coords="576,365,629,381" />
+<area id="LINK:sync-site2a:2"  href="graph_page.html"  onmouseover="return overlib('&lt;img  WIDTH=395 HEIGHT=153 src=graph_image.png&gt;',DELAY,250,WIDTH,395,LEFT,HEIGHT,153,ABOVE,CAPTION,'sync-site2a');"  onmouseout="return nd();"  shape="rect" coords="676,391,729,407" />
+<area id="LINK:sync-site2a:0"  href="graph_page.html"  onmouseover="return overlib('&lt;img  WIDTH=395 HEIGHT=153 src=graph_image.png&gt;',DELAY,250,WIDTH,395,LEFT,HEIGHT,153,ABOVE,CAPTION,'sync-site2a');"  onmouseout="return nd();"  shape="poly" coords="751,417,749,416,747,415,745,414,743,413,741,412,738,411,736,410,733,409,730,408,727,406,724,405,721,403,717,402,714,400,710,399,707,397,703,396,700,394,696,393,693,391,689,390,685,388,682,387,678,386,674,384,671,383,667,382,665,381,666,378,653,380,663,390,664,387,665,387,669,389,672,390,676,391,679,393,683,394,687,395,690,397,694,398,697,400,701,401,705,403,708,404,711,406,715,407,718,409,721,410,724,412,727,413,730,414,733,416,736,417,738,418,741,419,743,420,745,421,747,422,748,422" />
+<area id="LINK:sync-site2a:1"  href="graph_page.html"  onmouseover="return overlib('&lt;img  WIDTH=395 HEIGHT=153 src=graph_image.png&gt;',DELAY,250,WIDTH,395,LEFT,HEIGHT,153,ABOVE,CAPTION,'sync-site2a');"  onmouseout="return nd();"  shape="poly" coords="550,367,553,367,555,367,557,367,560,367,562,367,565,367,568,368,571,368,574,368,577,368,580,368,583,368,587,369,590,369,593,369,597,369,601,370,604,370,608,370,612,370,615,371,619,371,623,372,626,372,630,373,633,373,637,374,642,375,643,372,653,380,640,384,641,381,636,380,632,379,629,379,625,378,622,378,618,377,615,377,611,376,607,376,604,376,600,376,597,375,593,375,590,375,586,375,583,374,580,374,576,374,573,374,570,374,567,374,565,373,562,373,559,373,557,373,555,373,553,373,549,372" />
+<area id="LINK:sync-site1b:3"  href="graph_page.html"  onmouseover="return overlib('&lt;img  WIDTH=395 HEIGHT=153 src=graph_image.png&gt;',DELAY,250,WIDTH,395,LEFT,HEIGHT,153,CAPTION,'sync-site1b');"  onmouseout="return nd();"  shape="rect" coords="588,327,627,343" />
+<area id="LINK:sync-site1b:2"  href="graph_page.html"  onmouseover="return overlib('&lt;img  WIDTH=395 HEIGHT=153 src=graph_image.png&gt;',DELAY,250,WIDTH,395,LEFT,HEIGHT,153,CAPTION,'sync-site1b');"  onmouseout="return nd();"  shape="rect" coords="663,257,702,272" />
+<area id="LINK:sync-site1b:0"  href="graph_page.html"  onmouseover="return overlib('&lt;img  WIDTH=395 HEIGHT=153 src=graph_image.png&gt;',DELAY,250,WIDTH,395,LEFT,HEIGHT,153,CAPTION,'sync-site1b');"  onmouseout="return nd();"  shape="poly" coords="717,227,714,229,711,232,708,235,704,238,700,242,696,246,691,251,687,255,682,260,676,265,671,270,665,275,660,281,654,286,651,289,649,287,644,299,657,295,655,293,658,290,664,285,669,280,675,274,680,269,686,264,691,259,696,255,700,251,704,247,709,243,712,239,716,236,719,233,721,231" />
+<area id="LINK:sync-site1b:1"  href="graph_page.html"  onmouseover="return overlib('&lt;img  WIDTH=395 HEIGHT=153 src=graph_image.png&gt;',DELAY,250,WIDTH,395,LEFT,HEIGHT,153,CAPTION,'sync-site1b');"  onmouseout="return nd();"  shape="poly" coords="567,367,573,362,576,359,580,355,584,352,588,348,593,343,598,339,603,334,608,329,614,324,619,319,625,313,633,305,631,303,644,299,640,312,638,310,629,318,623,323,618,328,612,333,607,338,602,343,597,348,592,352,588,356,584,360,580,363,577,366,572,372" />
+<area id="LINK:sync-site1a:3"  href="graph_page.html"  onmouseover="return overlib('&lt;img  WIDTH=395 HEIGHT=153 src=graph_image.png&gt;',DELAY,250,WIDTH,395,LEFT,HEIGHT,153,CAPTION,'sync-site1a');"  onmouseout="return nd();"  shape="rect" coords="560,312,606,328" />
+<area id="LINK:sync-site1a:2"  href="graph_page.html"  onmouseover="return overlib('&lt;img  WIDTH=395 HEIGHT=153 src=graph_image.png&gt;',DELAY,250,WIDTH,395,LEFT,HEIGHT,153,CAPTION,'sync-site1a');"  onmouseout="return nd();"  shape="rect" coords="622,246,674,261" />
+<area id="LINK:sync-site1a:0"  href="graph_page.html"  onmouseover="return overlib('&lt;img  WIDTH=395 HEIGHT=153 src=graph_image.png&gt;',DELAY,250,WIDTH,395,LEFT,HEIGHT,153,CAPTION,'sync-site1a');"  onmouseout="return nd();"  shape="poly" coords="678,217,676,220,673,222,670,225,667,229,663,232,660,236,656,240,651,245,647,249,642,254,638,259,633,264,628,269,623,274,621,276,619,273,615,286,627,282,625,280,627,278,632,273,637,268,642,263,647,258,651,253,656,249,660,244,664,240,668,236,671,233,674,230,677,227,680,224,682,222" />
+<area id="LINK:sync-site1a:1"  href="graph_page.html"  onmouseover="return overlib('&lt;img  WIDTH=395 HEIGHT=153 src=graph_image.png&gt;',DELAY,250,WIDTH,395,LEFT,HEIGHT,153,CAPTION,'sync-site1a');"  onmouseout="return nd();"  shape="poly" coords="547,351,552,346,555,343,558,340,562,336,566,332,570,328,574,324,578,319,583,315,588,310,592,305,597,300,604,293,602,291,615,286,611,299,609,297,602,304,597,309,592,314,587,319,583,323,578,328,574,332,570,336,566,340,563,344,559,347,556,350,552,355" />
+<area id="LINK:sync-core:3"  href="graph_page.html"  onmouseover="return overlib('&lt;img  WIDTH=395 HEIGHT=153 src=graph_image.png&gt;',DELAY,250,WIDTH,395,LEFT,HEIGHT,153,ABOVE,CAPTION,'sync-core');"  onmouseout="return nd();"  shape="rect" coords="493,345,533,360" />
+<area id="LINK:sync-core:2"  href="graph_page.html"  onmouseover="return overlib('&lt;img  WIDTH=395 HEIGHT=153 src=graph_image.png&gt;',DELAY,250,WIDTH,395,LEFT,HEIGHT,153,ABOVE,CAPTION,'sync-core');"  onmouseout="return nd();"  shape="rect" coords="414,310,461,325" />
+<area id="LINK:sync-core:0"  href="graph_page.html"  onmouseover="return overlib('&lt;img  WIDTH=395 HEIGHT=153 src=graph_image.png&gt;',DELAY,250,WIDTH,395,LEFT,HEIGHT,153,ABOVE,CAPTION,'sync-core');"  onmouseout="return nd();"  shape="poly" coords="398,303,400,304,403,306,407,307,410,309,414,311,419,313,423,315,428,317,433,320,439,322,444,325,450,327,455,330,458,331,457,335,475,335,463,320,462,324,459,323,453,320,447,317,442,315,437,312,432,310,427,308,422,306,418,304,414,302,410,300,407,298,404,297,401,296" />
+<area id="LINK:sync-core:1"  href="graph_page.html"  onmouseover="return overlib('&lt;img  WIDTH=395 HEIGHT=153 src=graph_image.png&gt;',DELAY,250,WIDTH,395,LEFT,HEIGHT,153,ABOVE,CAPTION,'sync-core');"  onmouseout="return nd();"  shape="poly" coords="548,373,542,371,539,369,535,367,531,365,527,363,522,361,517,359,512,357,507,354,502,352,496,349,487,345,486,349,475,335,492,334,491,338,499,342,505,344,510,347,516,349,521,352,526,354,530,356,535,358,539,360,542,362,546,363,551,366" />
+</map><hr /><span id="byline">Network Map created with <a href="http://www.network-weathermap.com/?vs=0.96test2">PHP Network Weathermap v0.96test2</a></span></body></html>

diff --git a/trunk/Weathermap.class.php b/trunk/Weathermap.class.php
@@ -2260,6 +2260,7 @@ function ReadConfig($input)
 		foreach ($defaults as $key => $def)
 		{
 			$this->colours['DEFAULT'][$key]=$def;
+			$this->colours['DEFAULT'][$key]['key']=$key;
 			$scalesseen++;
 		}
 		// we have a 0-0 line now, so we need to hide that.
